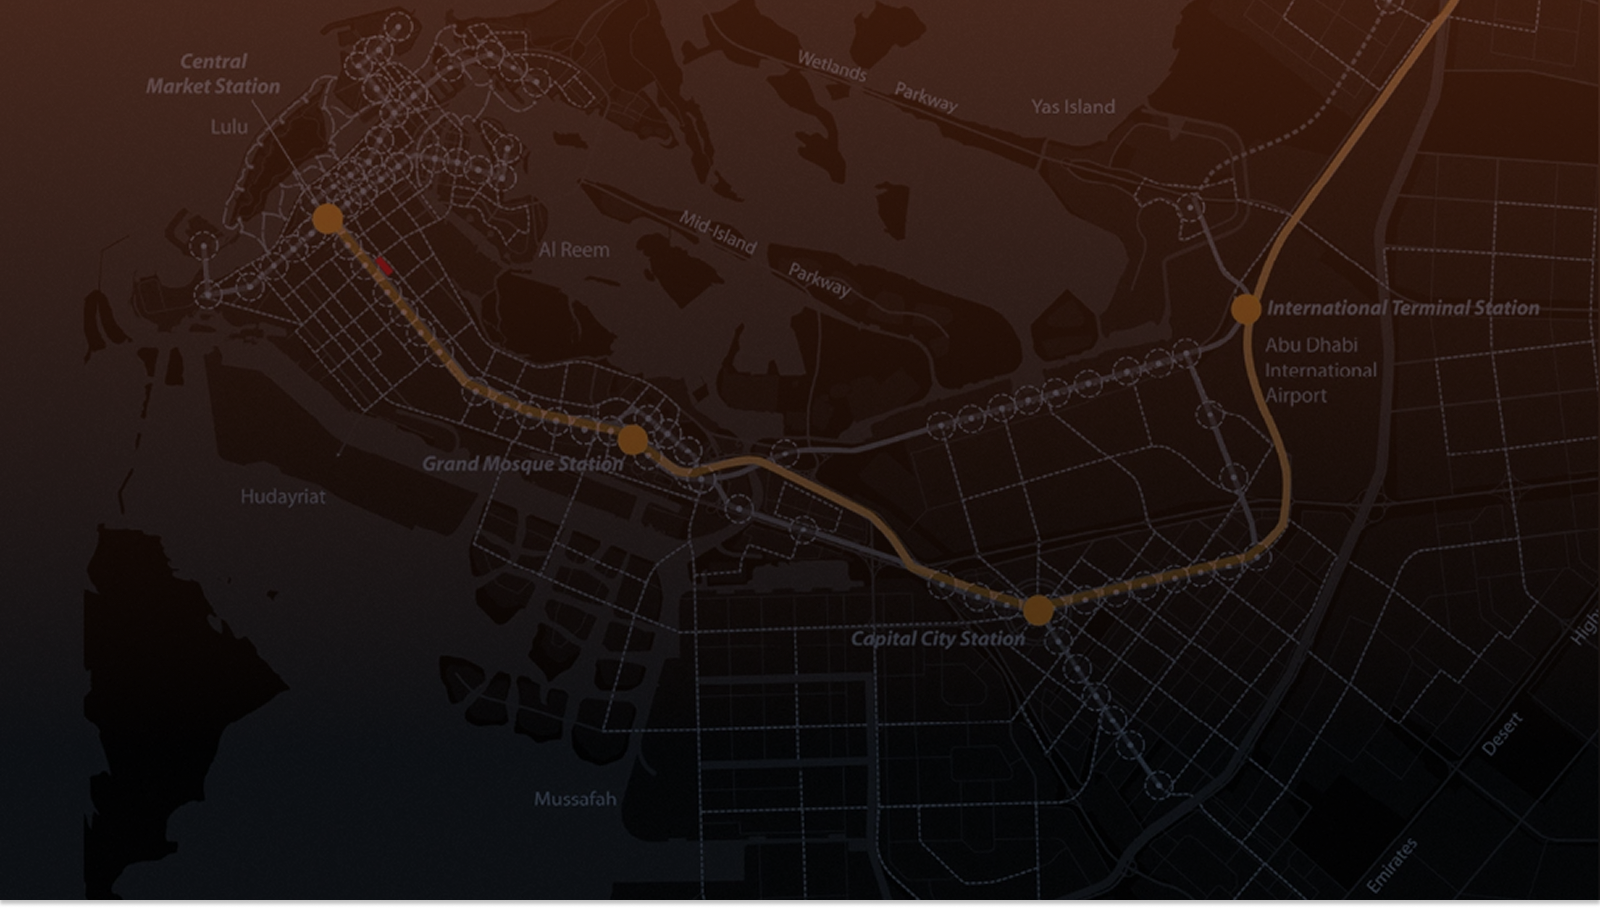
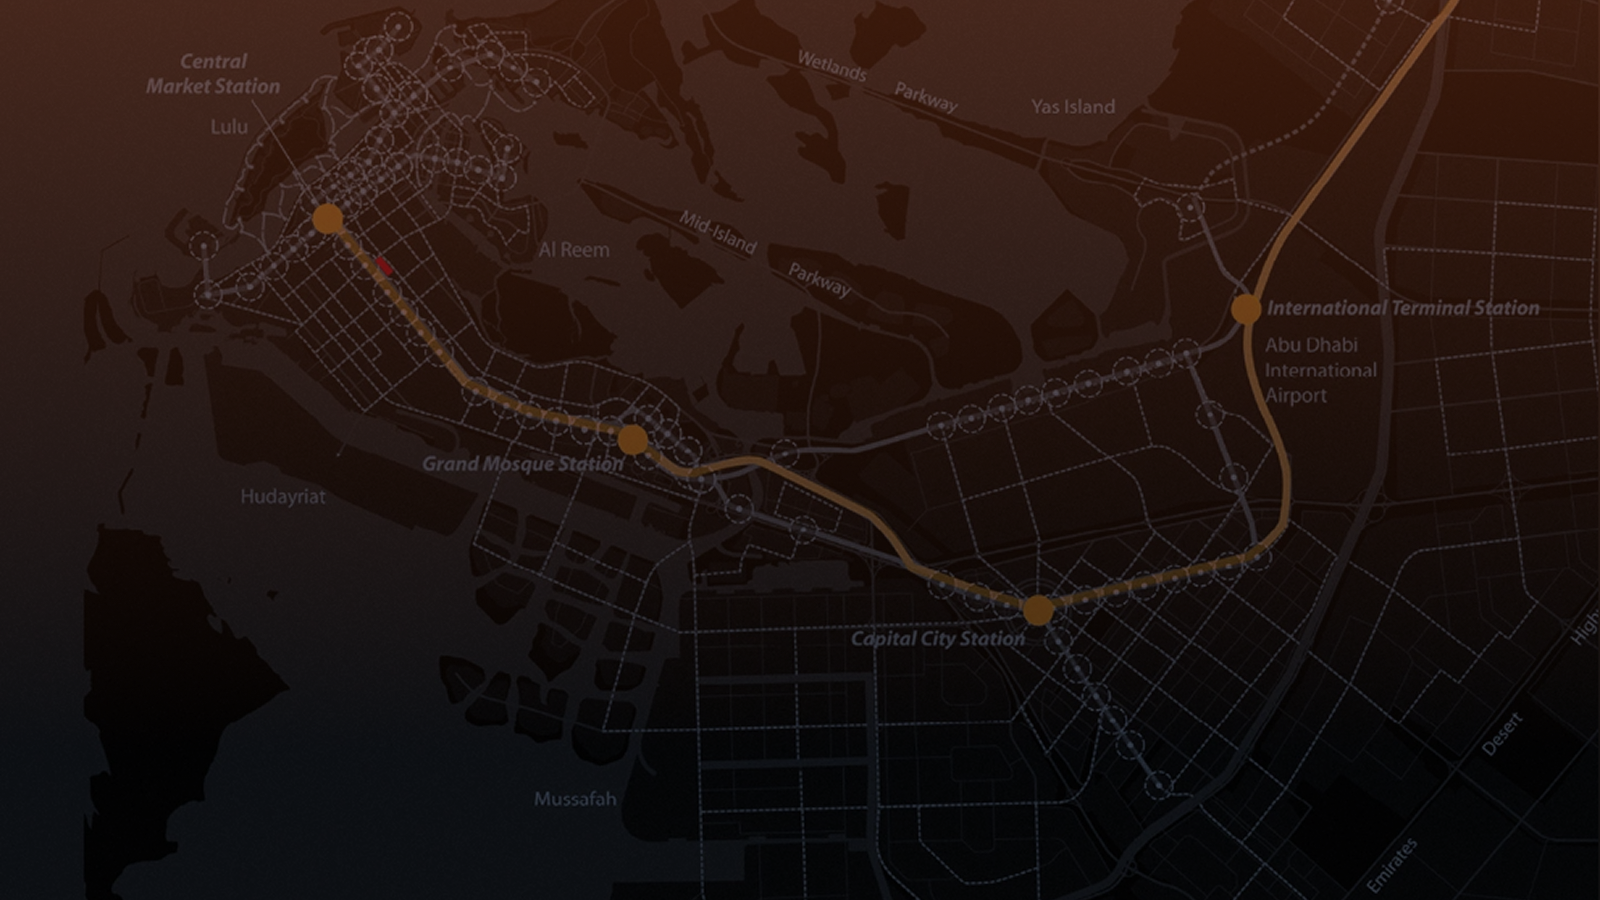
add: footer + mission

diff --git a/frontend/src/App.jsx b/frontend/src/App.jsx
@@ -4,6 +4,7 @@ import footer from './assets/footer.png'
 import cta from './assets/cta.svg'
 import cardBg from './assets/card-map-bg.png'
 import mapBg from './assets/bg-map.png'
+import up from './assets/up.svg'
 import './App.css'
 
 function App() {
@@ -12,6 +13,9 @@ function App() {
     <>
       <Header />
       <About />
+      <Mission />
+
+      <Footer />
     </>
   )
 }
@@ -26,8 +30,8 @@ function Header() {
               <div className="menu-controls">
                 <ul className="menu">
                   <li><a href="#">Home</a></li>
-                  <li><a href="#">About</a></li>
-                  <li><a href="#">Mission</a></li>
+                  <li><a href="#abt">About</a></li>
+                  <li><a href="#mission">Mission</a></li>
                 </ul>
                 <a href="#" className="cta">Try
                   <img src={cta} alt="redirect" />
@@ -56,7 +60,7 @@ function Header() {
 function About() {
   return(
     <>
-    <div className="abt-wrapper">
+    <div className="abt-wrapper" id='abt'>
       <div className="container">
         <div className="abt-top">
           <img src={logo} alt="logo" />
@@ -76,6 +80,81 @@ function About() {
         </div>
       </div>
     </div>
+    </>
+  );
+}
+
+function Mission() {
+  return(
+    <>
+      <div className="mission-wrapper" id='mission'>
+        <div className="container">
+          <div className="mission-text">
+            <div className="mission-title">
+              <p>Why It Matters</p>
+              <h1>Beyond the Map: Why We Exist</h1>
+            </div>
+
+            <div className="mission-desc">
+              <p>Urban environments were rarely built with everyone in mind. For many, a single set of stairs or a missing ramp isn't just an inconvenience—it’s a wall that stops a journey. We believe that technology should serve as a bridge, turning "impassable" into "possible" by providing the most granular accessibility data ever recorded.</p>
+              <p>Our goal is to eliminate the anxiety of the unknown. By mapping the world’s micro-barriers, we empower individuals to reclaim their cities. We aren't just building a navigation tool; we are fostering a more inclusive society where mobility is seamless, predictable, and, above all, dignified for everyone.</p>
+            </div>
+          </div>
+
+          <div className="mission-cards-wrap">
+            <div className="mission-card">
+              <p className="mission-num">#01</p>
+              <div className="mission-card-text">
+                <h3>Invisible Barriers</h3>
+                <p>Traditional maps ignore real-world friction — stairs, curbs, broken paths. We surface what others leave unseen.</p>
+              </div>
+            </div>
+            <div className="mission-card">
+              <p className="mission-num">#02</p>
+              <div className="mission-card-text">
+                <h3>Human-Centered Design</h3>
+                <p>Navigation should adapt to people — not the other way around. Every route is personalized, contextual, and aware.</p>
+              </div>
+            </div>
+            <div className="mission-card">
+              <p className="mission-num">#03</p>
+              <div className="mission-card-text">
+                <h3>Dignity in Motion</h3>
+                <p>Independence isn't a feature — it's a right. We design for confidence, safety, and autonomy.</p>
+              </div>
+            </div>
+          </div>
+        </div>
+      </div>
+    </>
+  );
+}
+
+function Footer() {
+  return(
+    <>
+      <div className="footer-wrapper">
+        <div className="container">
+          <div className="footer-top">
+            <div className="footer-offer">
+              <p>Your <span>city</span>, finally <span>unlocked</span></p>
+            </div>
+            <div className="footer-offer-right">
+              <p>Start your barrier-free journey today.</p>
+              <a href="#" className="cta">Launch Application
+                  <img src={cta} alt="redirect" />
+                </a>
+            </div>
+          </div>
+
+          <h1 className="banner">MOBIMPAI</h1>
+
+          <div className="footer-bottom">
+            <p>© 2026 MobImpAI. All rights reserved.</p>
+            <a href="#"><img src={up} alt="go_up" /></a>
+          </div>
+        </div>
+      </div>
     </>
   );
 }

diff --git a/frontend/src/App.css b/frontend/src/App.css
@@ -160,6 +160,7 @@
 .abt-wrapper {
   background: url("./assets/bg-map.png") no-repeat center top / cover;
   padding-top: 60px;
+  padding-bottom: 183px;
 }
 
 .abt-top {
@@ -212,4 +213,171 @@
   align-items: flex-start;
   flex-direction: column;
   margin-top: 46px;
+}
+
+.mission-wrapper {
+  padding-top: 60px;
+  padding-bottom: 124px;
+  background-color: #000;
+}
+
+.mission-title p {
+  color: #fa692a;
+  font-weight: 600;
+  font-size: 24px;
+  margin-bottom: 24px;
+}
+
+.mission-title h1 {
+  font-weight: 700;
+  color: #fff;
+  font-size: 96px;
+  line-height: 115%;
+  width: 447px;
+  text-align: left;
+}
+
+.mission-title {
+  display: flex;
+  flex-direction: column;
+  align-items: flex-start;
+}
+
+.mission-desc p {
+  font-weight: 400;
+  text-align: left;
+  font-size: 16px;
+  color: rgba(255, 255, 255, 0.5);
+  width: 364px;
+}
+
+.mission-desc {
+  display: flex;
+  flex-direction: column;
+  align-items: flex-start;
+  gap: 62px;
+}
+
+.mission-text {
+  display: flex;
+  align-items: flex-start;
+  justify-content: space-between;
+}
+
+.mission-card {
+  padding: 22px 14px 17px 20px;
+  border-radius: 12px;
+  background-color: #212121;
+  border: 1px solid rgba(217, 217, 217, 0.26);
+  width: 264px;
+  box-shadow: 0 10px 20px 0 rgba(250, 105, 42, 0.2);
+  display: flex;
+  align-items: flex-start;
+  flex-direction: column;
+  transition: 0.4s ease-in-out;
+}
+
+.mission-num {
+  font-weight: 700;
+  color: #fa692a;
+  font-size: 16px;
+  margin-bottom: 11px;
+}
+
+.mission-card-text h3 {
+  font-weight: 700;
+  font-size: 16px;
+  color: #fff;
+  margin-bottom: 9px;
+}
+
+.mission-card-text p {
+  font-weight: 400;
+  font-size: 13px;
+  width: 230px;
+  color: rgba(255, 255, 255, 0.5);
+  text-align: left;
+  line-height: 16px;
+}
+
+.mission-card-text {
+  display: flex;
+  flex-direction: column;
+  align-items: flex-start;
+}
+
+.mission-cards-wrap {
+  display: flex;
+  align-items: center;
+  gap: 36px;
+  margin-left: 296px;
+  margin-top: 41px;
+}
+
+.footer-wrapper {
+  overflow: hidden;
+  padding-top: 129px;
+  padding-bottom: 71px;
+  background: url("./assets/footer.png") no-repeat center top / cover;
+}
+
+.footer-offer p {
+  font-weight: 200;
+  font-size: 96px;
+  line-height: 115%;
+  width: 730px;
+  color: #fff;
+  text-align: left;
+}
+
+.footer-offer span {
+  font-weight: 600;
+  color: #fa692a;
+}
+
+.footer-offer-right p {
+  font-weight: 600;
+  font-size: 36px;
+  color: #fff;
+  text-align: left;
+  width: 407px;
+  margin-bottom: 42px;
+}
+
+.footer-offer-right {
+  display: flex;
+  flex-direction: column;
+  align-items: flex-start;
+}
+
+.footer-top {
+  display: flex;
+  align-items: center;
+  justify-content: space-between;
+}
+
+.banner {
+  text-transform: uppercase;
+  color: #fff;
+  font-weight: 900;
+  font-size: 330px;
+  margin-top: 150px;
+  line-height: 402px;
+  display: flex;justify-content: center;
+}
+
+.footer-bottom p {
+  font-weight: 300;
+  font-size: 15px;
+  color: #fff;
+}
+
+.footer-bottom a {
+  margin-left: 301px;
+}
+
+.footer-bottom {
+  margin-top: 21px;
+  display: flex;
+  align-items: center;
 }

diff --git a/frontend/src/index.css b/frontend/src/index.css
@@ -55,6 +55,10 @@ body {
   font-family: "Montserrat", sans-serif;
 }
 
+html {
+  scroll-behavior: smooth;
+}
+
 #root {
   text-align: center;
   min-height: 100svh;
